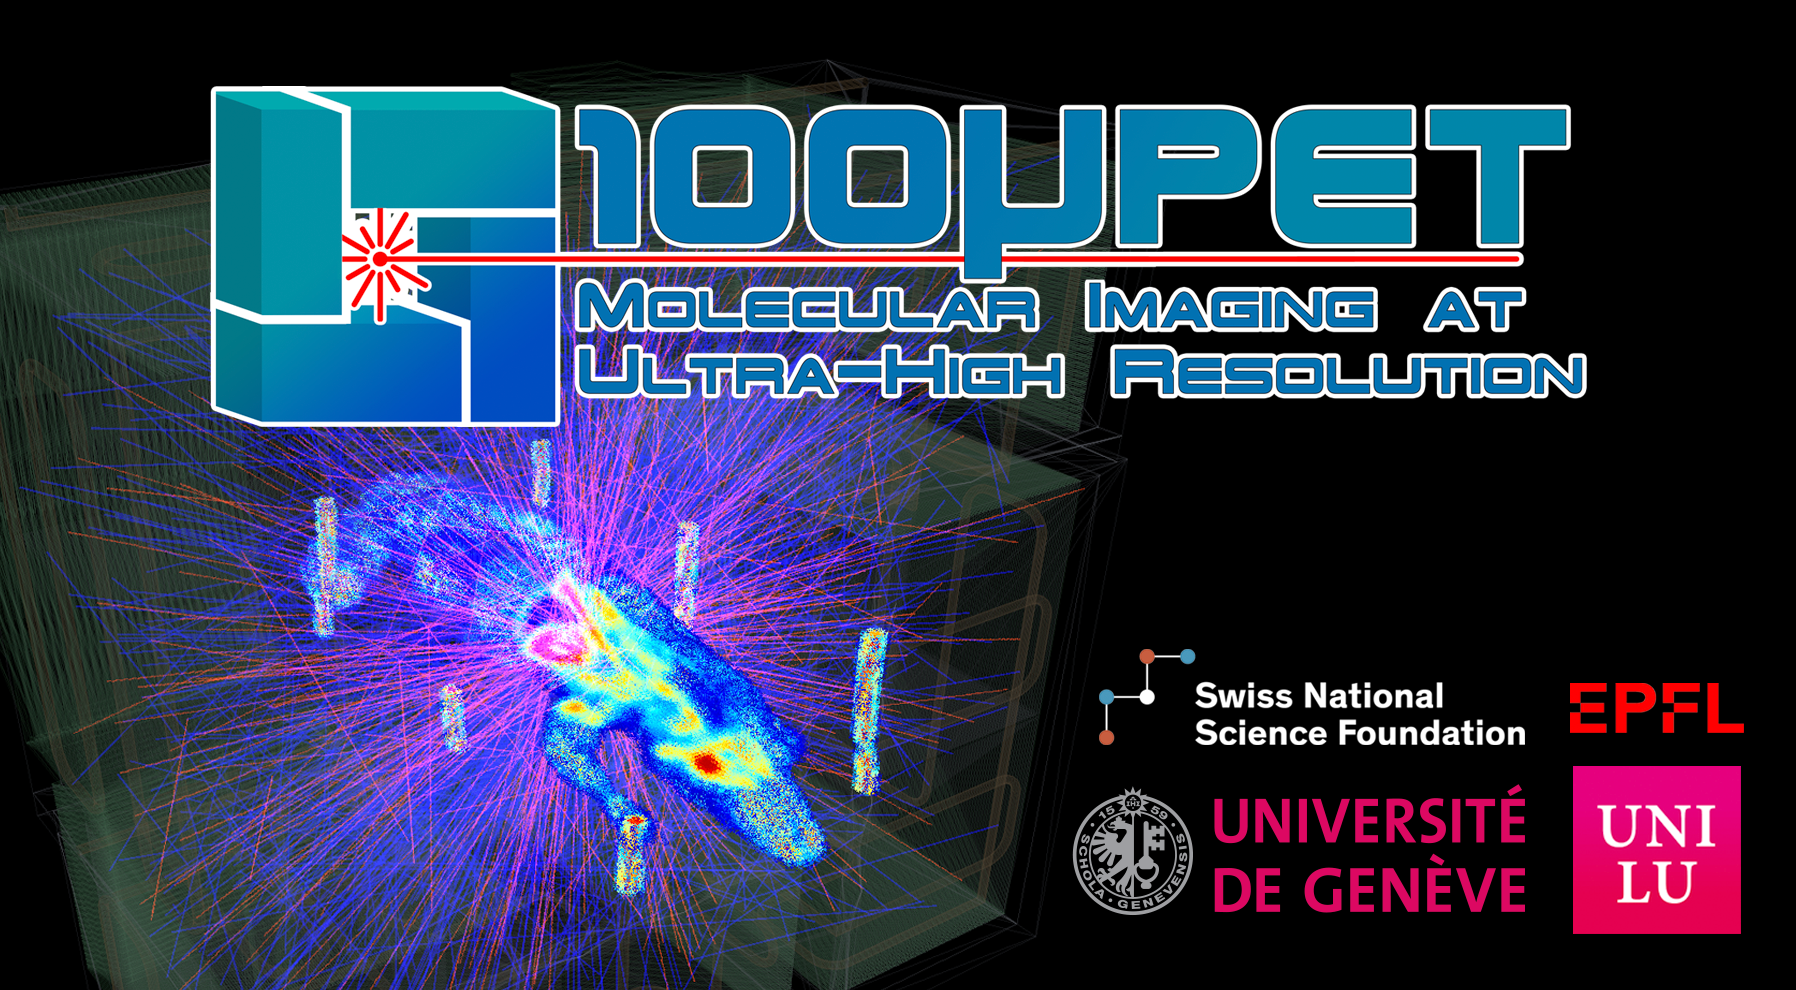
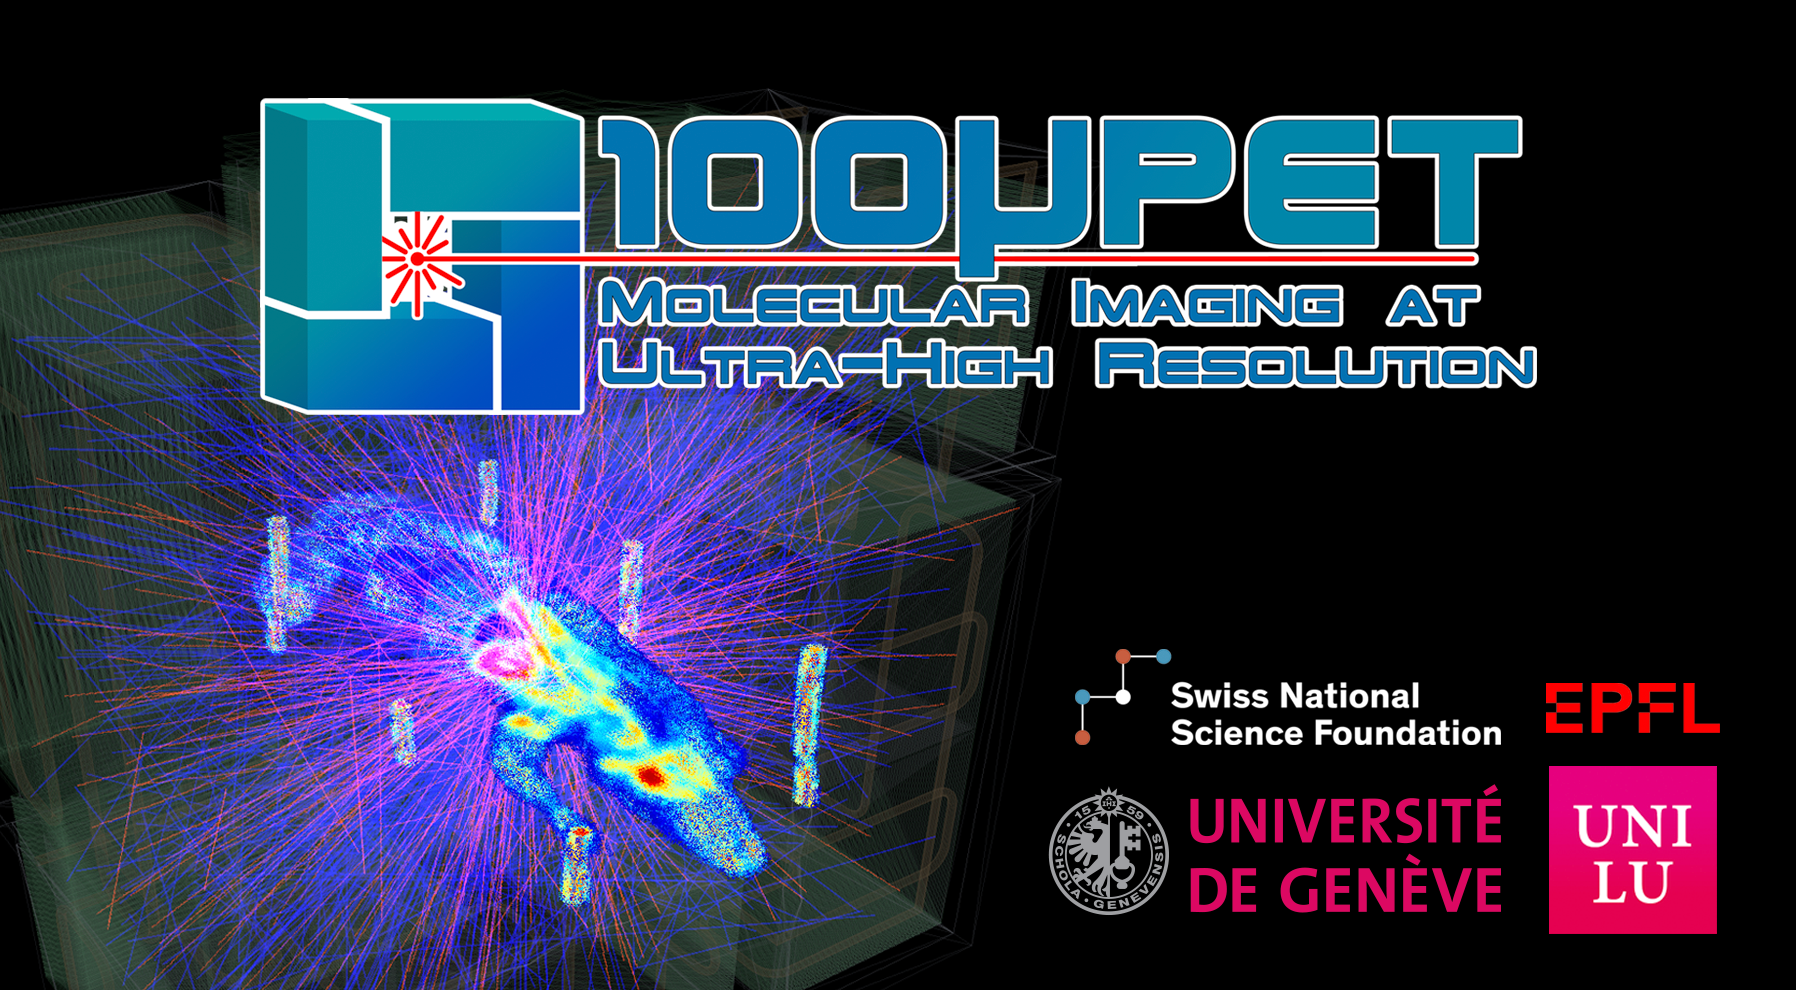
reshaping things...

diff --git a/content/en/_index.html b/content/en/_index.html
@@ -3,28 +3,45 @@ title = "100µPET"
 +++
 
 {{< blocks/cover image_anchor="top" height="full" color="gray" >}}
+<div class="mx-auto" style="padding-top: -20em;">
 	<!--
-<div class="mx-auto" style="padding-top: 1em;">
-	{{< 100uPET_logo >}}
+{{< 100uPET_logo >}}
     <a href="/docs/" class="btn btn-lg btn-light mb-3 mr-3 ml-4">
 	    Get Started <i class="fas fa-book ml-2"></i>
 	</a>
 	<a href="/blog/" class="btn btn-lg btn-light mb-3 ml-3 mr-3">
 		Latest News <i class="fas fa-rss ml-2"></i>
 	</a>
-    <p class="lead mt-3" style="padding-top: 21em;">
-        A novel generation of PET scanners pioneering ultra-high resolution molecular imaging.
-    </p>
-</div>
     -->
+    <p class="lead mt-3">
+		<br>
+		<br>
+		<br>
+		<br>
+		<br>
+		<br>
+		<br>
+		<br>
+		<br>
+		<br>
+		<br>
+		<br>
+		<br>
+		<br>
+		<br>
+		<br>
+    </p>
+	{{< blocks/link-down color="light" >}}
+</div>
 {{< /blocks/cover >}}
 
 
 {{% blocks/lead %}}
-{{< blocks/link-down color="light" >}}
+<!--
 <h2 class="100uPET-colored-header" style="padding-bottom: 1em;">
     The 100µPET project
 </h2>
+-->
 <span class="100uPET-lead-text">
     The University of Geneva, the University Hospital of Luzern and the École Polytechnique Fédérale de Lausanne have launched the 100µPET project that aims to produce a small-animal PET scanner with ultra-high resolution. This prototype, which will use a stack of 60 monolithic silicon pixel sensors as a detection medium, will provide volumetric spatial resolution one order of magnitude better than today’s best operating PET scanners.
 </span>
@@ -34,26 +51,25 @@ title = "100µPET"
 {{< blocks/section color="white">}}
 
 {{< blocks/feature icon="fas fa-has-helg">}}
-{{< figure src="/img/logos/T--UniGE-Geneva--unige-igem-scifac-logo.png" title="Development and construction of the 100μPET small-animal scanner" width="50" >}}
+{{< figure src="/img/logos/T--UniGE-Geneva--unige-igem-scifac-logo.png" title="<br>Design and production of the 100μPET small-animal scanner" width="50" >}}
 {{< /blocks/feature >}}
 
 {{< blocks/feature icon="fas fa-has-helg">}}
-{{< figure src="/img/logos/2560px-Logo_EPFL.svg.png" title="Sophisticated reconstruction with Machine Learning and Neural Networks to cope with the 10^15 possible lines-of-response" height="50" >}}
+{{< figure src="/img/logos/2560px-Logo_EPFL.svg.png" title="<br>Imaging with Machine Learning and Neural Networks to cope with the 10^15 possible lines-of-response" height="50" >}}
 {{< /blocks/feature >}}
 
 {{< blocks/feature icon="fas fa-has-helg">}}
-{{< figure src="/img/logos/Logo-Universitaet-Luzern-2.png" title="Study the onset and progression of atherosclerotic plaques in arteries to better understand, monitor and treat atherosclerosis in ApoE+/- mice" height="50" >}}
+{{< figure src="/img/logos/Logo-Universitaet-Luzern-2.png" title="<br>Study the onset and progression of atherosclerotic plaques in arteries to better understand, monitor and treat atherosclerosis in ApoE+/- mice" height="50" >}}
 {{< /blocks/feature >}}
 
 {{< /blocks/section >}}
 
+<!--
 {{< blocks/section >}}
 
-<!--
 {{< blocks/feature icon="fas fa-code-branch" title="Open Source" url_text="Join the community" url="/community/" >}}
 Allpix Squared is hosted on CERN's GitLab instance under the MIT license.
 {{< /blocks/feature >}}
--->
 
 {{< blocks/feature icon="fas fa-memo-circle-info" title="Publications" url="/publications/" >}}
 Various publications have been made about the 100µPET scanner.
@@ -64,3 +80,4 @@ Take a look at some of the beautiful plots created with Allpix Squared.
 {{< /blocks/feature >}}
 
 {{< /blocks/section >}}
+-->

diff --git a/content/en/about/_index.html b/content/en/about/_index.html
@@ -1,6 +1,6 @@
 ---
 title: About Goldydocs
-linkTitle: About
+linkTitle: Project
 menu:
   main:
     weight: 10
@@ -8,27 +8,37 @@ menu:
 ---
 
 
-{{< blocks/cover title="The 100µPET project" image_anchor="bottom" height="min" >}}
+{{< blocks/cover title="" image_anchor="bottom" height="full" >}}
 
-<p class="lead mt-5">A revolutionary high-resolution medical imaging scanner.
+<p class="lead mt-5">
+	<br>
+	<br>
+	<br>
+	<br>
+	<br>
+	<br>
+	<br>
+	<br>
+	<br>
+	<br>
+	<br>
+	<br>
+	<br>
+	PET is an imaging technique of unprecedented sensitivity but low resolution. While today small blood vessels can only be visualized in their entire, our technology will turn the invisible into visible, allowing the study of changes in the lining of small blood vessels, such as atherosclerotic plaques.
+	<br>
 </p>
+{{< blocks/link-down color="light" >}}
 
 {{< /blocks/cover >}}
 
 {{% blocks/lead %}}
-Positron Emission Tomography (PET) is a clinical imaging method of unprecedented sensitivity but low resolution. With today's PET technology, small blood vessels can only be visualized in their entirety (A). The proposed new PET technology will allow the study of changes in the lining of small blood vessels, such as atherosclerotic plaques (B). Images: © Xavier Ravinet - UNIGE
-{{% /blocks/lead %}}
-
-{{< blocks/section >}}
-The 100µPET project has a SNSF SINERGIA grant in the filed of very high resolution medical imaging. This project aims to pioneer ultra-high resolution molecular imaging and to make this technology available for novel cutting-edge medical applications. It aims to develop a prototype of an ultra-high resolution PET scanner for small animals in combination with advanced image reconstruction algorithms. The first step of this project is to perform, as the first biomedical application, ultra-high resolution molecular imaging of the onset and progression of atherosclerosis in ApoE-/- mice.
-{{< /blocks/section >}}
+The 100µPET is a project in the filed of ultra-high-resolution medical imaging, supported by a SNSF SINERGIA grant (CRSII5_198569, Period: June 1, 2021 - May 31, 2025). This project aims to pioneer ultra-high resolution molecular imaging and to make this technology available for novel cutting-edge medical applications. It aims to develop a prototype of an ultra-high resolution PET scanner for small animals in combination with advanced image reconstruction algorithms. The first step of this project is to perform, as the first biomedical application, ultra-high resolution molecular imaging of the onset and progression of atherosclerosis in ApoE-/- mice.
+{{< /blocks/lead >}}
 
 {{< blocks/section >}}
 The ultra-high resolution scanner will use a multilayer of monolithic silicon pixel sensors as a detection medium. In contrast to conventional PET scanners, the concept of the 100µPET project uses photons that are converted inside 50 µm lead sheets. The electrons produced are detected and measured in highly accurate monolithic silicon sensors with a thickness of 100 µm. A stack of 60 lead+silicon detection layers ensures high efficiency with a peak sensitivity of 4%. The scanner's spatial granularity of 100×100×200 µm3 will provide unmatched spatial resolution and revolutionary depth of interaction measurements in high quality imaging.
 
 {{< /blocks/section >}}
-
-
 
 {{< blocks/section >}}
 

diff --git a/content/en/people/_index.md b/content/en/people/_index.md
@@ -1,0 +1,15 @@
+---
+# SPDX-FileCopyrightText: 2022 100uPET
+# SPDX-License-Identifier: CC-BY-4.0
+title: "People"
+menu:
+  main:
+    weight: 20
+---
+
+
+{{% blocks/section type="section" color="white" %}}
+
+{{< figure src="/img/screenshots/team.png" alt="The team" >}}
+
+{{% /blocks/section %}}

diff --git a/content/en/publications/_index.md b/content/en/publications/_index.md
@@ -4,11 +4,8 @@
 title: "Publications"
 menu:
   main:
-    weight: 20
+    weight: 30
 ---
-
-{{< blocks/cover title="Publications" height="auto" >}}
-{{< /blocks/cover >}}
 
 
 {{% blocks/section type="section" color="white" %}}

diff --git a/content/en/docs/_index.md b/content/en/docs/_index.md
@@ -1,7 +1,7 @@
 ---
 # SPDX-FileCopyrightText: 2022 100µPET
 # SPDX-License-Identifier: CC-BY-4.0
-title: "Documentation"
+title: "Internal"
 menu:
   main:
     weight: 40
